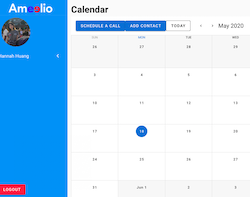
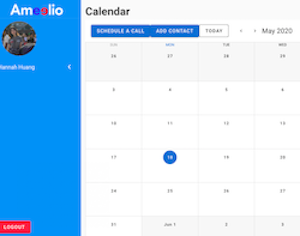
fix styling again

diff --git a/src/styles/layout.css b/src/styles/layout.css
@@ -152,6 +152,8 @@ span {
 #myname {
   background-color: #d4feda;
   color: #222028;
+  padding-right: 15px;
+  padding-left: 15px;
   font-size: 35px;
 }
 
